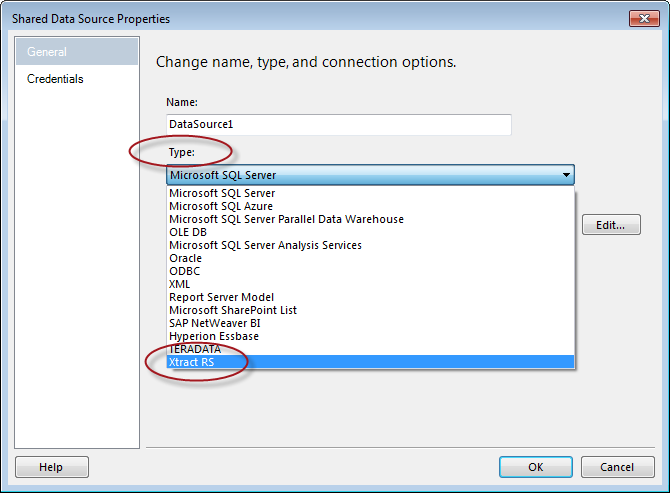
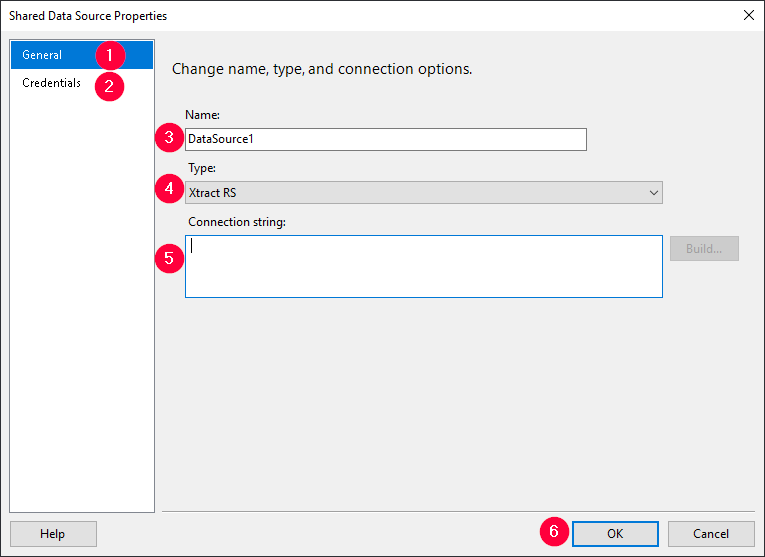
connection string XRS überarbeitet

Changed region(s): [[0.0, 0.0, 1.0, 1.0], [0.1791, 0.8824, 0.209, 0.9128]]

diff --git a/content/_de/xtract-rs/report-datenquelle-konfigurieren.md b/content/_de/xtract-rs/report-datenquelle-konfigurieren.md
@@ -12,24 +12,30 @@ lang: de_DE
 old_url: /Xtract-RS-DE/default.aspx?pageid=report-datenquelle-konfigurieren
 ---
 
-Nach der Installation steht Ihnen Xtract RS bei der Neuanlage von Datenquellen zur Verfügung. Die folgende Anleitung zeigt, wie Sie eine Verbindung einrichten. Die Abbildungen können leicht abweichen, je nach dem, ob Sie den Wizard oder die manuelle Anlage nutzen.
+Der folgende Abschnitt führt durch die Neuanlage einer SAP Datenquelle im SQL Server Report Server (SSRS) Umfeld. 
+Die Abbildungen können leicht abweichen, je nach dem, ob Sie den Wizard oder die manuelle Anlage nutzen.
 
+1. Führen Sie die Anwendung *XtractRSSetup.exe* auf der identischen Umgebung aus, in der auch Visual Studio installiert wurde.
+2. Stellen Sie sicher, dass die Erweiterung *Microsoft Reporting Services Projects* in VS2019 installiert und aktiviert wurde.
+3. Erstellen Sie eine neues *Report Server Project* in VS2019.
+4. Rechtsklick auf den Ordner *Shared Data Sources* und *Add New Data Source* auswählen.
+5. Vergeben Sie im Reiter *General* (1) einen Namen für die neue Datenquelle (optional), als default Wert wird *DataSource1* vergeben (3).
+6. Auswählen des Typs *Xtract RS* (4).
 ![Report-Data-Source-001](/img/content/Report-Data-Source-001.png){:class="img-responsive"}
-
-Klicken Sie auf den *Edit* Button, um in den Dialog für die Verbindungseigenschaften zu gelangen.
-
+7. Angabe eines Connection String zur SAP Quelle in folgender Form (5)
+    - SSO mittels SNC: `ApplicationHost=[value];SYSNR=[value];LANG=EN;Client=800;SNC_MODE=1;SNC_PARTNERNAME=p:SAPserviceERP/do_not_care@[domain];SNC_LIB=gx64krb5.dll`
+    - ohne SNC: `ApplicationHost=saperp.theobald.local; SYSNR=00; CLIENT=800;LANG=EN`
+8. Wechseln Sie zum Reiter *Credentials* und geben Ihren SAP Benutzer sowie Passwort an (2).
 ![Report-Data-Source-002](/img/content/Report-Data-Source-002.png){:class="img-responsive"}
+9. Bestätigen Sie die Eingaben mit **[OK]** (6).
 
-Falls Sie sich direkt mit einem einzelnen Applikationsserver verbinden möchten, füllen Sie bitte die Parameter *ApplicationHost* und *SystemNumber* aus. Für eine Anmeldung per Load Balancing müssen die Felder *MessageServer, SID* und *LogonGroup* gefüllt werden, außerdem muss der Parameter *UseLoadBalancing* auf true stehen. Falls Sie Schwierigkeiten beim Ausfüllen dieser technischen Parameter haben, fragen Sie bitte in ihrer Basis-Abteilung nach.
+{: .box-note }
+**Note:** Falls Sie sich direkt mit einem einzelnen Applikationsserver verbinden möchten, füllen Sie bitte die Parameter *ApplicationHost* und *SystemNumber* aus. Für eine Anmeldung per Load Balancing müssen die Parameter *MessageServer, SID* und *LogonGroup* im Connection String mitgegeben werden. Des Weiteren muss der Parameter *UseLoadBalancing* auf *true* stehen. Falls Sie Schwierigkeiten beim Ausfüllen dieser technischen Parameter haben, fragen Sie bitte in ihrer SAP-Basis nach.
 
-Neben diesen technischen Einstellungen sind noch Angaben zum Anmelde-Account zu machen. Dazu gehören insbesondere der Mandant (*Client*) und die Anmeldesprache (*Language*). Es besteht zwar die Möglichkeit, hier bereits Benutzername und Passwort auszufüllen. Dies ist aber aus Sicherheitsgründen nicht empfohlen, da diese beiden Angaben ohne Verschlüsselung frei sichtbar im Connection-String auftauchen würden.
+### Die Kerberos DLLs herunterladen
 
-Bestätigen Sie Ihre Angaben mit *OK*. Die Einstellungen werden nun in den ConnectionString übernommen:
-
-![Report-Data-Source-003](/img/content/Report-Data-Source-003.png){:class="img-responsive"}
-
-Um nun noch den Benutzernamen und das Passwort zu übergeben, klicken Sie bitte auf den Button *Credentials*... . Sie können dort entweder feste Anmeldedaten hinterlegen, oder den Benutzer jedesmal eigene Anmeldedaten eingeben lassen, wenn ein Report gestartet wird.
-
-![Report-Data-Source-004](/img/content/Report-Data-Source-004.png){:class="img-responsive"}
+{: .box-note }
+**Note:** Sie müssen die relevanten DLLs von der [SAP ONE Support Launchpad](https://launchpad.support.sap.com/#/notes/2115486) herunterladen. 
+Die Kereros Bibliotheken bitte in folgenden lokalen Pfad abspeichern: `C:\SNC\gx64krb5.dll` (64-bit) oder `C:\SNC\gsskrb5.dll` (32-bit).
 
 {% include _content/table-of-contents.html parent=page.childidentifier collection=site.de %}
